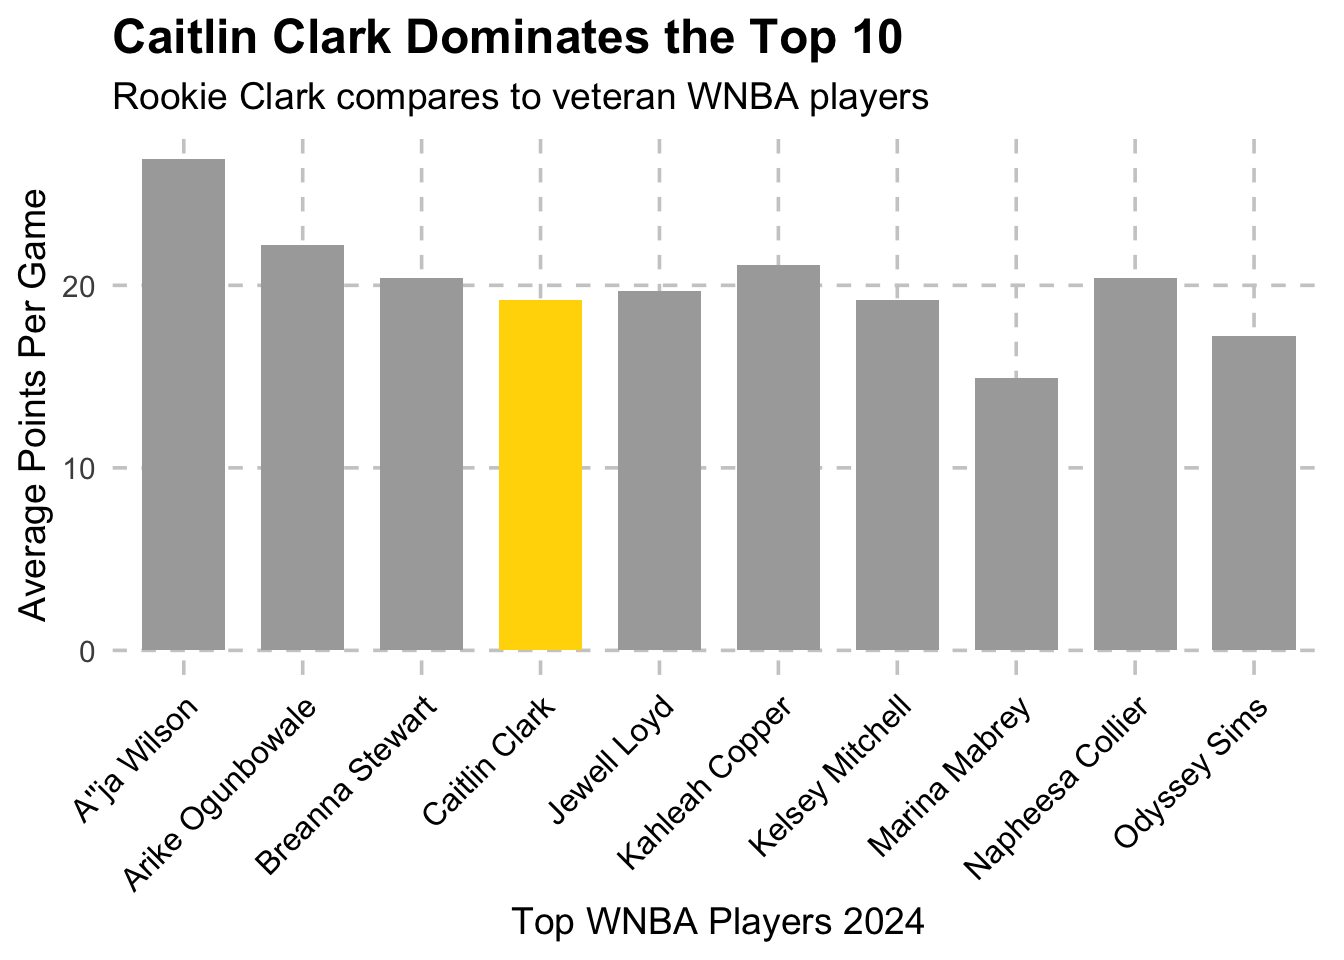
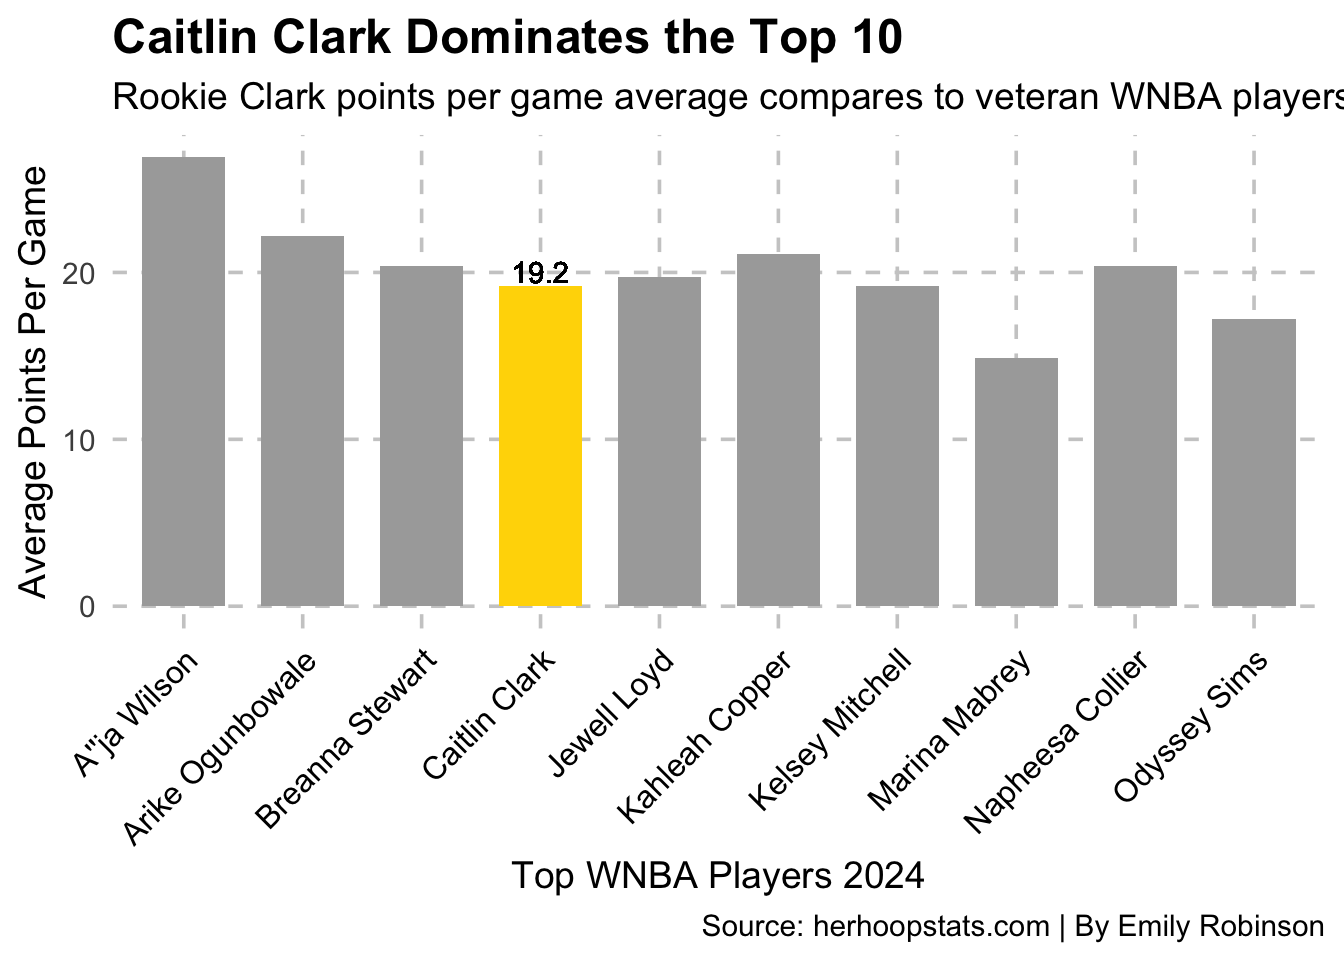
Final Blog

diff --git a/posts/caitlin-clarks-influence-on-indiana-fever/index.html b/posts/caitlin-clarks-influence-on-indiana-fever/index.html
@@ -236,24 +236,26 @@ pre > code.sourceCode > span > a:first-child::before { text-decoration: underlin
 <span id="cb1-33"><a href="#cb1-33" aria-hidden="true" tabindex="-1"></a><span class="fu">ggplot</span>(rookies_top_15_long, <span class="fu">aes</span>(<span class="at">x =</span> Player, <span class="at">y =</span> Value, <span class="at">fill =</span> Player_Color)) <span class="sc">+</span></span>
 <span id="cb1-34"><a href="#cb1-34" aria-hidden="true" tabindex="-1"></a>  <span class="fu">geom_bar</span>(<span class="at">stat =</span> <span class="st">"identity"</span>, <span class="at">position =</span> <span class="st">"dodge"</span>, <span class="at">width =</span> <span class="fl">0.7</span>) <span class="sc">+</span></span>
 <span id="cb1-35"><a href="#cb1-35" aria-hidden="true" tabindex="-1"></a>  <span class="fu">theme_minimal</span>(<span class="at">base_size =</span> <span class="dv">14</span>) <span class="sc">+</span>  </span>
-<span id="cb1-36"><a href="#cb1-36" aria-hidden="true" tabindex="-1"></a>  <span class="fu">labs</span>(</span>
-<span id="cb1-37"><a href="#cb1-37" aria-hidden="true" tabindex="-1"></a>    <span class="at">title =</span> <span class="st">"Caitlin Clark Dominates the Top 10"</span>,  </span>
-<span id="cb1-38"><a href="#cb1-38" aria-hidden="true" tabindex="-1"></a>    <span class="at">subtitle =</span> <span class="st">"Rookie Clark compares to veteran WNBA players"</span>,  </span>
-<span id="cb1-39"><a href="#cb1-39" aria-hidden="true" tabindex="-1"></a>    <span class="at">y =</span> <span class="st">"Average Points Per Game"</span>,  </span>
-<span id="cb1-40"><a href="#cb1-40" aria-hidden="true" tabindex="-1"></a>    <span class="at">x =</span> <span class="st">"Top WNBA Players 2024"</span>  </span>
-<span id="cb1-41"><a href="#cb1-41" aria-hidden="true" tabindex="-1"></a>  ) <span class="sc">+</span></span>
-<span id="cb1-42"><a href="#cb1-42" aria-hidden="true" tabindex="-1"></a>  <span class="fu">scale_fill_manual</span>(<span class="at">values =</span> team_colors) <span class="sc">+</span>  <span class="co"># Apply custom colors</span></span>
-<span id="cb1-43"><a href="#cb1-43" aria-hidden="true" tabindex="-1"></a>  <span class="fu">theme</span>(</span>
-<span id="cb1-44"><a href="#cb1-44" aria-hidden="true" tabindex="-1"></a>    <span class="at">axis.text.x =</span> <span class="fu">element_text</span>(<span class="at">angle =</span> <span class="dv">45</span>, <span class="at">hjust =</span> <span class="dv">1</span>, <span class="at">size =</span> <span class="dv">12</span>, <span class="at">color =</span> <span class="st">"black"</span>),  </span>
-<span id="cb1-45"><a href="#cb1-45" aria-hidden="true" tabindex="-1"></a>    <span class="at">axis.title.x =</span> <span class="fu">element_text</span>(<span class="at">size =</span> <span class="dv">14</span>, <span class="at">color =</span> <span class="st">"black"</span>),  </span>
-<span id="cb1-46"><a href="#cb1-46" aria-hidden="true" tabindex="-1"></a>    <span class="at">axis.title.y =</span> <span class="fu">element_text</span>(<span class="at">size =</span> <span class="dv">14</span>, <span class="at">color =</span> <span class="st">"black"</span>),  </span>
-<span id="cb1-47"><a href="#cb1-47" aria-hidden="true" tabindex="-1"></a>    <span class="at">plot.title =</span> <span class="fu">element_text</span>(<span class="at">size =</span> <span class="dv">18</span>, <span class="at">face =</span> <span class="st">"bold"</span>, <span class="at">color =</span> <span class="st">"black"</span>),  </span>
-<span id="cb1-48"><a href="#cb1-48" aria-hidden="true" tabindex="-1"></a>    <span class="at">plot.subtitle =</span> <span class="fu">element_text</span>(<span class="at">size =</span> <span class="dv">14</span>, <span class="at">color =</span> <span class="st">"black"</span>),  </span>
-<span id="cb1-49"><a href="#cb1-49" aria-hidden="true" tabindex="-1"></a>    <span class="at">panel.grid.major =</span> <span class="fu">element_line</span>(<span class="at">color =</span> <span class="st">"grey80"</span>, <span class="at">linetype =</span> <span class="st">"dashed"</span>),  </span>
-<span id="cb1-50"><a href="#cb1-50" aria-hidden="true" tabindex="-1"></a>    <span class="at">panel.grid.minor =</span> <span class="fu">element_blank</span>(), </span>
-<span id="cb1-51"><a href="#cb1-51" aria-hidden="true" tabindex="-1"></a>    <span class="at">plot.background =</span> <span class="fu">element_rect</span>(<span class="at">fill =</span> <span class="st">"white"</span>, <span class="at">color =</span> <span class="cn">NA</span>)  </span>
-<span id="cb1-52"><a href="#cb1-52" aria-hidden="true" tabindex="-1"></a>  ) <span class="sc">+</span></span>
-<span id="cb1-53"><a href="#cb1-53" aria-hidden="true" tabindex="-1"></a>  <span class="fu">guides</span>(<span class="at">fill =</span> <span class="cn">FALSE</span>) </span></code><button title="Copy to Clipboard" class="code-copy-button"><i class="bi"></i></button></pre></div>
+<span id="cb1-36"><a href="#cb1-36" aria-hidden="true" tabindex="-1"></a>  <span class="fu">geom_text</span>(<span class="fu">aes</span>(<span class="at">x=</span><span class="st">"Caitlin Clark"</span>, <span class="at">y=</span><span class="dv">20</span>, <span class="at">label=</span><span class="st">"19.2"</span>), <span class="at">color=</span><span class="st">"black"</span>) <span class="sc">+</span></span>
+<span id="cb1-37"><a href="#cb1-37" aria-hidden="true" tabindex="-1"></a>  <span class="fu">labs</span>(</span>
+<span id="cb1-38"><a href="#cb1-38" aria-hidden="true" tabindex="-1"></a>    <span class="at">title =</span> <span class="st">"Caitlin Clark Dominates the Top 10"</span>,  </span>
+<span id="cb1-39"><a href="#cb1-39" aria-hidden="true" tabindex="-1"></a>    <span class="at">subtitle =</span> <span class="st">"Rookie Clark points per game average compares to veteran WNBA players"</span>,  </span>
+<span id="cb1-40"><a href="#cb1-40" aria-hidden="true" tabindex="-1"></a>    <span class="at">caption =</span> <span class="st">"Source: herhoopstats.com | By Emily Robinson"</span>,</span>
+<span id="cb1-41"><a href="#cb1-41" aria-hidden="true" tabindex="-1"></a>    <span class="at">y =</span> <span class="st">"Average Points Per Game"</span>,  </span>
+<span id="cb1-42"><a href="#cb1-42" aria-hidden="true" tabindex="-1"></a>    <span class="at">x =</span> <span class="st">"Top WNBA Players 2024"</span>  </span>
+<span id="cb1-43"><a href="#cb1-43" aria-hidden="true" tabindex="-1"></a>  ) <span class="sc">+</span></span>
+<span id="cb1-44"><a href="#cb1-44" aria-hidden="true" tabindex="-1"></a>  <span class="fu">scale_fill_manual</span>(<span class="at">values =</span> team_colors) <span class="sc">+</span>  <span class="co"># Apply custom colors</span></span>
+<span id="cb1-45"><a href="#cb1-45" aria-hidden="true" tabindex="-1"></a>  <span class="fu">theme</span>(</span>
+<span id="cb1-46"><a href="#cb1-46" aria-hidden="true" tabindex="-1"></a>    <span class="at">axis.text.x =</span> <span class="fu">element_text</span>(<span class="at">angle =</span> <span class="dv">45</span>, <span class="at">hjust =</span> <span class="dv">1</span>, <span class="at">size =</span> <span class="dv">12</span>, <span class="at">color =</span> <span class="st">"black"</span>),  </span>
+<span id="cb1-47"><a href="#cb1-47" aria-hidden="true" tabindex="-1"></a>    <span class="at">axis.title.x =</span> <span class="fu">element_text</span>(<span class="at">size =</span> <span class="dv">14</span>, <span class="at">color =</span> <span class="st">"black"</span>),  </span>
+<span id="cb1-48"><a href="#cb1-48" aria-hidden="true" tabindex="-1"></a>    <span class="at">axis.title.y =</span> <span class="fu">element_text</span>(<span class="at">size =</span> <span class="dv">14</span>, <span class="at">color =</span> <span class="st">"black"</span>),  </span>
+<span id="cb1-49"><a href="#cb1-49" aria-hidden="true" tabindex="-1"></a>    <span class="at">plot.title =</span> <span class="fu">element_text</span>(<span class="at">size =</span> <span class="dv">18</span>, <span class="at">face =</span> <span class="st">"bold"</span>, <span class="at">color =</span> <span class="st">"black"</span>),  </span>
+<span id="cb1-50"><a href="#cb1-50" aria-hidden="true" tabindex="-1"></a>    <span class="at">plot.subtitle =</span> <span class="fu">element_text</span>(<span class="at">size =</span> <span class="dv">14</span>, <span class="at">color =</span> <span class="st">"black"</span>),  </span>
+<span id="cb1-51"><a href="#cb1-51" aria-hidden="true" tabindex="-1"></a>    <span class="at">panel.grid.major =</span> <span class="fu">element_line</span>(<span class="at">color =</span> <span class="st">"grey80"</span>, <span class="at">linetype =</span> <span class="st">"dashed"</span>),  </span>
+<span id="cb1-52"><a href="#cb1-52" aria-hidden="true" tabindex="-1"></a>    <span class="at">panel.grid.minor =</span> <span class="fu">element_blank</span>(), </span>
+<span id="cb1-53"><a href="#cb1-53" aria-hidden="true" tabindex="-1"></a>    <span class="at">plot.background =</span> <span class="fu">element_rect</span>(<span class="at">fill =</span> <span class="st">"white"</span>, <span class="at">color =</span> <span class="cn">NA</span>)  </span>
+<span id="cb1-54"><a href="#cb1-54" aria-hidden="true" tabindex="-1"></a>  ) <span class="sc">+</span></span>
+<span id="cb1-55"><a href="#cb1-55" aria-hidden="true" tabindex="-1"></a>  <span class="fu">guides</span>(<span class="at">fill =</span> <span class="cn">FALSE</span>) </span></code><button title="Copy to Clipboard" class="code-copy-button"><i class="bi"></i></button></pre></div>
 </details>
 <div class="cell-output-display">
 <div>
@@ -277,17 +279,20 @@ pre > code.sourceCode > span > a:first-child::before { text-decoration: underlin
 <span id="cb2-8"><a href="#cb2-8" aria-hidden="true" tabindex="-1"></a>  <span class="fu">geom_line</span>(<span class="at">color =</span> <span class="st">"gray40"</span>, <span class="at">size =</span> <span class="dv">1</span>) <span class="sc">+</span>  </span>
 <span id="cb2-9"><a href="#cb2-9" aria-hidden="true" tabindex="-1"></a>  <span class="fu">geom_point</span>(<span class="fu">aes</span>(<span class="at">color =</span> <span class="st">`</span><span class="at">W/L</span><span class="st">`</span>), <span class="at">size =</span> <span class="dv">3</span>) <span class="sc">+</span>  </span>
 <span id="cb2-10"><a href="#cb2-10" aria-hidden="true" tabindex="-1"></a>  <span class="fu">scale_color_manual</span>(<span class="at">values =</span> <span class="fu">c</span>(<span class="st">"W"</span> <span class="ot">=</span> <span class="st">"green"</span>, <span class="st">"L"</span> <span class="ot">=</span> <span class="st">"red"</span>)) <span class="sc">+</span></span>
-<span id="cb2-11"><a href="#cb2-11" aria-hidden="true" tabindex="-1"></a>  <span class="fu">labs</span>(</span>
-<span id="cb2-12"><a href="#cb2-12" aria-hidden="true" tabindex="-1"></a>    <span class="at">title =</span> <span class="st">"Indiana Fever Game Scores by Date"</span>,</span>
-<span id="cb2-13"><a href="#cb2-13" aria-hidden="true" tabindex="-1"></a>    <span class="at">x =</span> <span class="st">"Game Date"</span>,</span>
-<span id="cb2-14"><a href="#cb2-14" aria-hidden="true" tabindex="-1"></a>    <span class="at">y =</span> <span class="st">"Team Score"</span>,</span>
-<span id="cb2-15"><a href="#cb2-15" aria-hidden="true" tabindex="-1"></a>    <span class="at">color =</span> <span class="st">"Game Result"</span></span>
-<span id="cb2-16"><a href="#cb2-16" aria-hidden="true" tabindex="-1"></a>  ) <span class="sc">+</span></span>
-<span id="cb2-17"><a href="#cb2-17" aria-hidden="true" tabindex="-1"></a>  <span class="fu">theme_minimal</span>(<span class="at">base_size =</span> <span class="dv">14</span>) <span class="sc">+</span></span>
-<span id="cb2-18"><a href="#cb2-18" aria-hidden="true" tabindex="-1"></a>  <span class="fu">theme</span>(</span>
-<span id="cb2-19"><a href="#cb2-19" aria-hidden="true" tabindex="-1"></a>    <span class="at">axis.text.x =</span> <span class="fu">element_text</span>(<span class="at">size =</span> <span class="dv">10</span>, <span class="at">angle =</span> <span class="dv">90</span>, <span class="at">hjust =</span> <span class="dv">1</span>),</span>
-<span id="cb2-20"><a href="#cb2-20" aria-hidden="true" tabindex="-1"></a>    <span class="at">plot.title =</span> <span class="fu">element_text</span>(<span class="at">size =</span> <span class="dv">18</span>, <span class="at">face =</span> <span class="st">"bold"</span>)</span>
-<span id="cb2-21"><a href="#cb2-21" aria-hidden="true" tabindex="-1"></a>  )</span></code><button title="Copy to Clipboard" class="code-copy-button"><i class="bi"></i></button></pre></div>
+<span id="cb2-11"><a href="#cb2-11" aria-hidden="true" tabindex="-1"></a>  </span>
+<span id="cb2-12"><a href="#cb2-12" aria-hidden="true" tabindex="-1"></a>  <span class="fu">labs</span>(</span>
+<span id="cb2-13"><a href="#cb2-13" aria-hidden="true" tabindex="-1"></a>    <span class="at">title =</span> <span class="st">"Clark Takes Off While The Fever Remains Mid"</span>,</span>
+<span id="cb2-14"><a href="#cb2-14" aria-hidden="true" tabindex="-1"></a>    <span class="at">subtitle =</span> <span class="st">"Despite Clark's individual success, the Fever found themselves stuck."</span>,</span>
+<span id="cb2-15"><a href="#cb2-15" aria-hidden="true" tabindex="-1"></a>    <span class="at">caption =</span> <span class="st">"Source: herhoopstats.com | By Emily Robinson"</span>,</span>
+<span id="cb2-16"><a href="#cb2-16" aria-hidden="true" tabindex="-1"></a>    <span class="at">x =</span> <span class="st">"Game Date"</span>,</span>
+<span id="cb2-17"><a href="#cb2-17" aria-hidden="true" tabindex="-1"></a>    <span class="at">y =</span> <span class="st">"Team Score"</span>,</span>
+<span id="cb2-18"><a href="#cb2-18" aria-hidden="true" tabindex="-1"></a>    <span class="at">color =</span> <span class="st">"Game Result"</span></span>
+<span id="cb2-19"><a href="#cb2-19" aria-hidden="true" tabindex="-1"></a>  ) <span class="sc">+</span></span>
+<span id="cb2-20"><a href="#cb2-20" aria-hidden="true" tabindex="-1"></a>  <span class="fu">theme_minimal</span>(<span class="at">base_size =</span> <span class="dv">14</span>) <span class="sc">+</span></span>
+<span id="cb2-21"><a href="#cb2-21" aria-hidden="true" tabindex="-1"></a>  <span class="fu">theme</span>(</span>
+<span id="cb2-22"><a href="#cb2-22" aria-hidden="true" tabindex="-1"></a>    <span class="at">axis.text.x =</span> <span class="fu">element_text</span>(<span class="at">size =</span> <span class="dv">10</span>, <span class="at">angle =</span> <span class="dv">90</span>, <span class="at">hjust =</span> <span class="dv">1</span>),</span>
+<span id="cb2-23"><a href="#cb2-23" aria-hidden="true" tabindex="-1"></a>    <span class="at">plot.title =</span> <span class="fu">element_text</span>(<span class="at">size =</span> <span class="dv">18</span>, <span class="at">face =</span> <span class="st">"bold"</span>)</span>
+<span id="cb2-24"><a href="#cb2-24" aria-hidden="true" tabindex="-1"></a>  )</span></code><button title="Copy to Clipboard" class="code-copy-button"><i class="bi"></i></button></pre></div>
 </details>
 <div class="cell-output-display">
 <div>
@@ -316,17 +321,22 @@ pre > code.sourceCode > span > a:first-child::before { text-decoration: underlin
 <span id="cb3-13"><a href="#cb3-13" aria-hidden="true" tabindex="-1"></a>  <span class="fu">geom_point</span>(<span class="at">alpha =</span> <span class="fl">0.7</span>) <span class="sc">+</span></span>
 <span id="cb3-14"><a href="#cb3-14" aria-hidden="true" tabindex="-1"></a>  <span class="fu">scale_size_manual</span>(<span class="at">values =</span> <span class="fu">c</span>(<span class="st">"Loss"</span> <span class="ot">=</span> <span class="dv">4</span>, <span class="st">"Win"</span> <span class="ot">=</span> <span class="dv">10</span>)) <span class="sc">+</span></span>
 <span id="cb3-15"><a href="#cb3-15" aria-hidden="true" tabindex="-1"></a>  <span class="fu">scale_color_manual</span>(<span class="at">values =</span> <span class="fu">c</span>(<span class="st">"Win"</span> <span class="ot">=</span> <span class="st">"green"</span>, <span class="st">"Loss"</span> <span class="ot">=</span> <span class="st">"red"</span>)) <span class="sc">+</span></span>
-<span id="cb3-16"><a href="#cb3-16" aria-hidden="true" tabindex="-1"></a>  <span class="fu">labs</span>(</span>
-<span id="cb3-17"><a href="#cb3-17" aria-hidden="true" tabindex="-1"></a>    <span class="at">title =</span> <span class="st">"Caitlin Controls The Fever's Numbers"</span>,</span>
-<span id="cb3-18"><a href="#cb3-18" aria-hidden="true" tabindex="-1"></a>    <span class="at">x =</span> <span class="st">"Indiana Fever's Final Score"</span>,</span>
-<span id="cb3-19"><a href="#cb3-19" aria-hidden="true" tabindex="-1"></a>    <span class="at">y =</span> <span class="st">"Caitlin Clark's Points"</span>,</span>
-<span id="cb3-20"><a href="#cb3-20" aria-hidden="true" tabindex="-1"></a>    <span class="at">size =</span> <span class="st">"Game Result"</span>,</span>
-<span id="cb3-21"><a href="#cb3-21" aria-hidden="true" tabindex="-1"></a>    <span class="at">color =</span> <span class="st">"Game Result"</span></span>
-<span id="cb3-22"><a href="#cb3-22" aria-hidden="true" tabindex="-1"></a>  ) <span class="sc">+</span></span>
-<span id="cb3-23"><a href="#cb3-23" aria-hidden="true" tabindex="-1"></a>  <span class="fu">theme_minimal</span>(<span class="at">base_size =</span> <span class="dv">14</span>) <span class="sc">+</span></span>
-<span id="cb3-24"><a href="#cb3-24" aria-hidden="true" tabindex="-1"></a>  <span class="fu">theme</span>(</span>
-<span id="cb3-25"><a href="#cb3-25" aria-hidden="true" tabindex="-1"></a>    <span class="at">plot.title =</span> <span class="fu">element_text</span>(<span class="at">size =</span> <span class="dv">18</span>, <span class="at">face =</span> <span class="st">"bold"</span>)</span>
-<span id="cb3-26"><a href="#cb3-26" aria-hidden="true" tabindex="-1"></a>  )</span></code><button title="Copy to Clipboard" class="code-copy-button"><i class="bi"></i></button></pre></div>
+<span id="cb3-16"><a href="#cb3-16" aria-hidden="true" tabindex="-1"></a></span>
+<span id="cb3-17"><a href="#cb3-17" aria-hidden="true" tabindex="-1"></a>  <span class="fu">labs</span>(</span>
+<span id="cb3-18"><a href="#cb3-18" aria-hidden="true" tabindex="-1"></a>    <span class="at">title =</span> <span class="st">"Caitlin Controls The Fever's Numbers"</span>,</span>
+<span id="cb3-19"><a href="#cb3-19" aria-hidden="true" tabindex="-1"></a>    <span class="at">subtitle =</span> <span class="st">"The Fever can't make up for it when Clark doesn't put up her usual points."</span>,</span>
+<span id="cb3-20"><a href="#cb3-20" aria-hidden="true" tabindex="-1"></a>    <span class="at">caption =</span> <span class="st">"Source: herhoopstats.com | By Emily Robinson"</span>,</span>
+<span id="cb3-21"><a href="#cb3-21" aria-hidden="true" tabindex="-1"></a>    </span>
+<span id="cb3-22"><a href="#cb3-22" aria-hidden="true" tabindex="-1"></a>    <span class="at">x =</span> <span class="st">"Indiana Fever's Final Score"</span>,</span>
+<span id="cb3-23"><a href="#cb3-23" aria-hidden="true" tabindex="-1"></a>    <span class="at">y =</span> <span class="st">"Caitlin Clark's Points"</span>,</span>
+<span id="cb3-24"><a href="#cb3-24" aria-hidden="true" tabindex="-1"></a>    <span class="at">size =</span> <span class="st">"Game Result"</span>,</span>
+<span id="cb3-25"><a href="#cb3-25" aria-hidden="true" tabindex="-1"></a>    <span class="at">color =</span> <span class="st">"Game Result"</span></span>
+<span id="cb3-26"><a href="#cb3-26" aria-hidden="true" tabindex="-1"></a>  ) <span class="sc">+</span></span>
+<span id="cb3-27"><a href="#cb3-27" aria-hidden="true" tabindex="-1"></a>  </span>
+<span id="cb3-28"><a href="#cb3-28" aria-hidden="true" tabindex="-1"></a>  <span class="fu">theme_minimal</span>(<span class="at">base_size =</span> <span class="dv">14</span>) <span class="sc">+</span></span>
+<span id="cb3-29"><a href="#cb3-29" aria-hidden="true" tabindex="-1"></a>  <span class="fu">theme</span>(</span>
+<span id="cb3-30"><a href="#cb3-30" aria-hidden="true" tabindex="-1"></a>    <span class="at">plot.title =</span> <span class="fu">element_text</span>(<span class="at">size =</span> <span class="dv">18</span>, <span class="at">face =</span> <span class="st">"bold"</span>)</span>
+<span id="cb3-31"><a href="#cb3-31" aria-hidden="true" tabindex="-1"></a>  )</span></code><button title="Copy to Clipboard" class="code-copy-button"><i class="bi"></i></button></pre></div>
 </details>
 <div class="cell-output-display">
 <div>

diff --git a/index.html b/index.html
@@ -210,7 +210,7 @@ window.Quarto = {
 
 <div class="quarto-listing quarto-listing-container-default" id="listing-listing">
 <div class="list quarto-listing-default">
-<div class="quarto-post image-right" data-index="0" data-categories="d25iYSUyQ2Jhc2tldGJhbGwlMkNpbmRpYW5h" data-listing-date-sort="1743483600000" data-listing-file-modified-sort="1744670767640" data-listing-date-modified-sort="NaN" data-listing-reading-time-sort="5" data-listing-word-count-sort="936">
+<div class="quarto-post image-right" data-index="0" data-categories="d25iYSUyQ2Jhc2tldGJhbGwlMkNpbmRpYW5h" data-listing-date-sort="1743483600000" data-listing-file-modified-sort="1744673992494" data-listing-date-modified-sort="NaN" data-listing-reading-time-sort="6" data-listing-word-count-sort="1024">
 <div class="thumbnail">
 <p><a href="./posts/caitlin-clarks-influence-on-indiana-fever/index.html" class="no-external"></a></p><a href="./posts/caitlin-clarks-influence-on-indiana-fever/index.html" class="no-external">
 <p><img loading="lazy" src="./posts/caitlin-clarks-influence-on-indiana-fever/image.png" class="thumbnail-image"></p>
